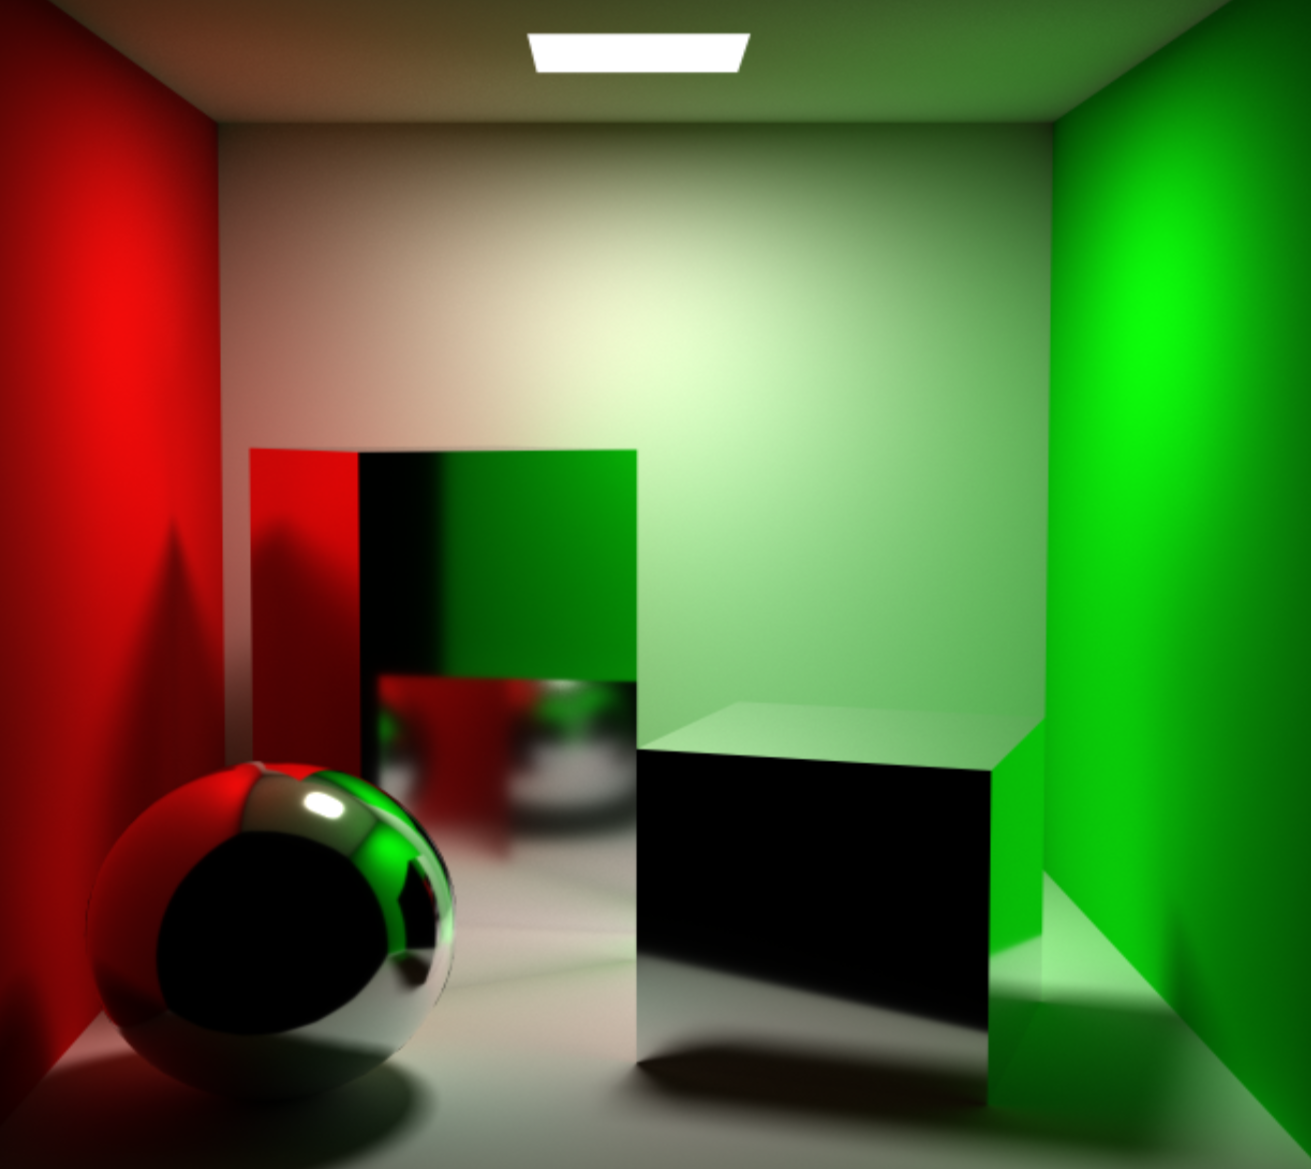
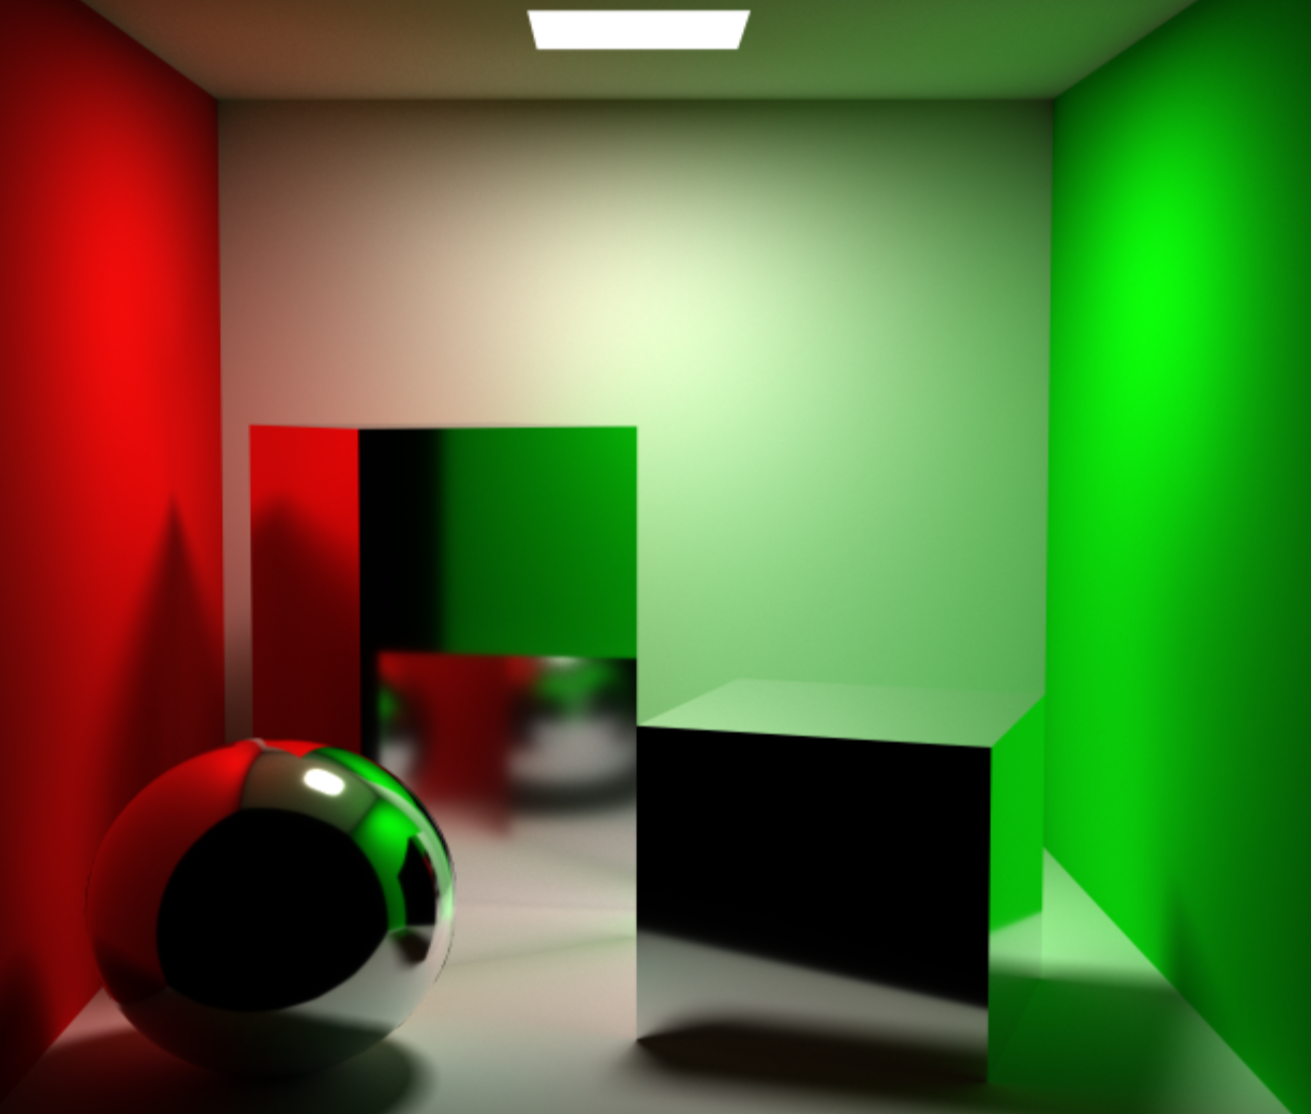
add wfc to website

diff --git a/work.html b/work.html
@@ -61,6 +61,17 @@
 
         <article>
           <header>
+            <h3><a href="https://artguerra.com/wave-function-collapse" target="_blank">Wave Function Collapse</a></h3>
+            <img src="assets/thumbs/wfc.png" alt="Flowers pixel art generated by WFC" />
+            <p>Wave Function Collapse solver made with WebGPU, featuring multiple control parameters to experiment with the capabilities of the algorithm.</p>
+          </header>
+          <footer>
+            <small>WFC · Procedural Modeling · WebGPU · WGSL</small>
+          </footer>
+        </article>
+
+        <article>
+          <header>
             <h3><a href="https://github.com/artguerra/reaction-diffusion">Reaction-Diffusion model simulation</a></h3>
             <img src="assets/thumbs/rd.png" alt="Reaction-diffusion patterns" />
             <p>Real-time Gray–Scott reaction–diffusion in OpenGL. CPU finite-difference and GPU fragment-shader ping-pong, built for side-by-side performance comparison.</p>

diff --git a/index.html b/index.html
@@ -107,18 +107,18 @@
             <p>Real-time path tracer built from scratch in WebGPU, implementing ReSTIR for efficient many-light sampling with spatiotemporal reuse.</p>
           </header>
           <footer>
-            <small>Path tracing · ReSTIR · WebGPU · WGSL</small>
+            <small>Path Tracing · ReSTIR · WebGPU · WGSL</small>
           </footer>
         </article>
 
         <article>
           <header>
-            <h3><a href="https://github.com/artguerra/reaction-diffusion" target="_blank">Reaction-Diffusion model simulation</a></h3>
-            <img src="assets/thumbs/rd.png" alt="Reaction-diffusion patterns" />
-            <p>Real-time Gray–Scott reaction–diffusion in OpenGL. CPU finite-difference and GPU fragment-shader ping-pong, built for side-by-side performance comparison.</p>
+            <h3><a href="https://artguerra.com/wave-function-collapse" target="_blank">Wave Function Collapse</a></h3>
+            <img src="assets/thumbs/wfc.png" alt="Flowers pixel art generated by WFC" />
+            <p>Wave Function Collapse solver made with WebGPU, featuring multiple control parameters to experiment with the capabilities of the algorithm.</p>
           </header>
           <footer>
-            <small>Framebuffers · GPU Compute · C++/OpenGL/GLSL</small>
+            <small>WFC · Procedural Modeling · WebGPU · WGSL</small>
           </footer>
         </article>
 